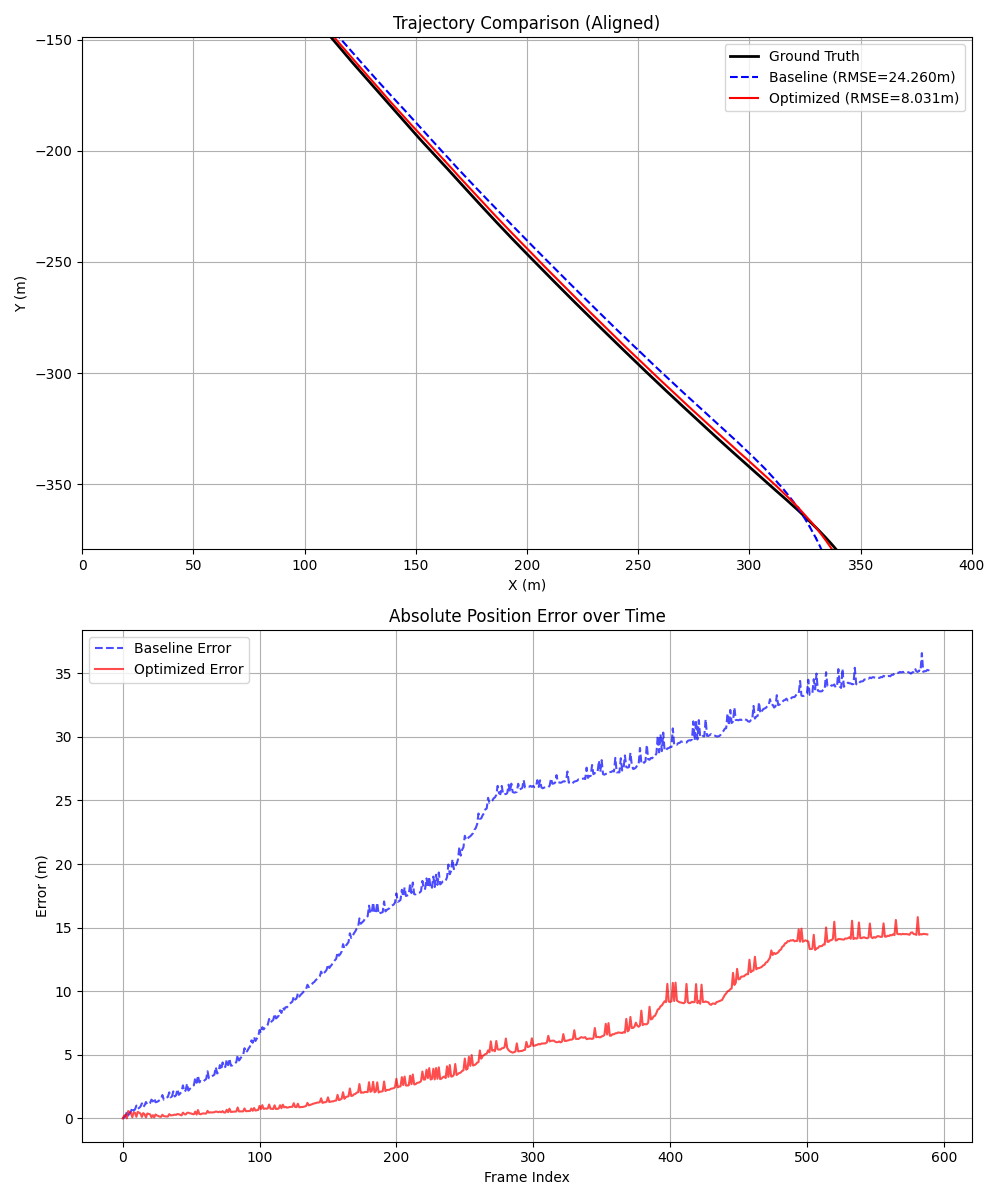
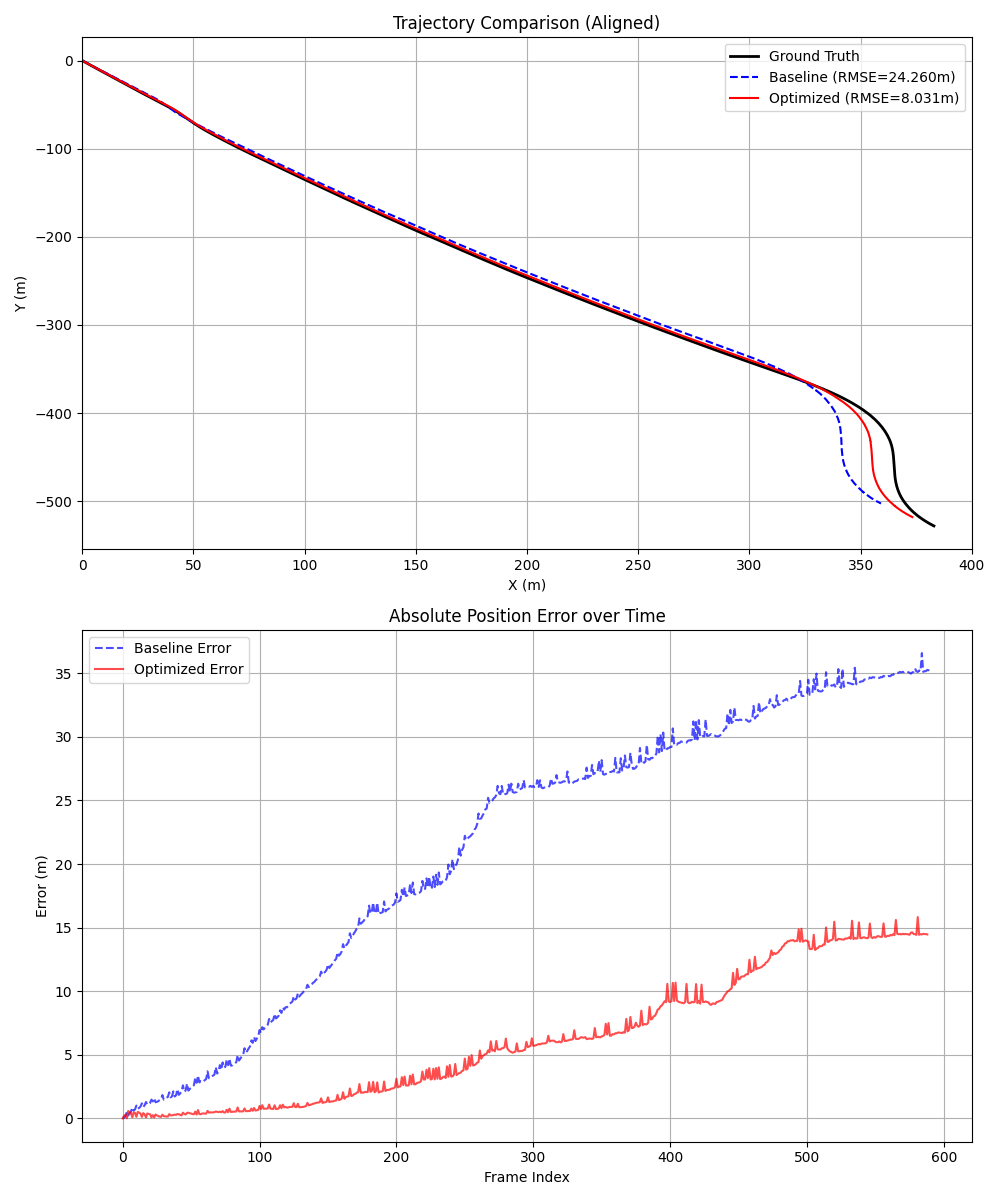
优化图表

diff --git a/Scripts/evaluation/evaluate_trajectory.py b/Scripts/evaluation/evaluate_trajectory.py
@@ -188,21 +188,8 @@ def main():
     ax1.set_xlabel("X (m)")
     ax1.set_ylabel("Y (m)")
     ax1.legend()
-    ax1.set_aspect('equal', adjustable='datalim')
     ax1.grid(True)
-    
-    # Force X range to 0-400
     ax1.set_xlim(0, 400)
-    ax1.set_ylim(-600, 0)
-    
-    # Calculate data Y-center
-    all_y = np.concatenate([gt_opt[:, 1], pred_opt[:, 1]])
-    if baseline_data is not None:
-         all_y = np.concatenate([all_y, pred_base[:, 1]])
-    
-    y_center = (np.max(all_y) + np.min(all_y)) / 2.0
-    # Set a tiny Y-range seed to force 'datalim' to expand Y (preserving X-width)
-    ax1.set_ylim(y_center - 1.0, y_center + 1.0)
     
     # Bottom: Errors
     if error_base is not None and len(error_base) > 0:
